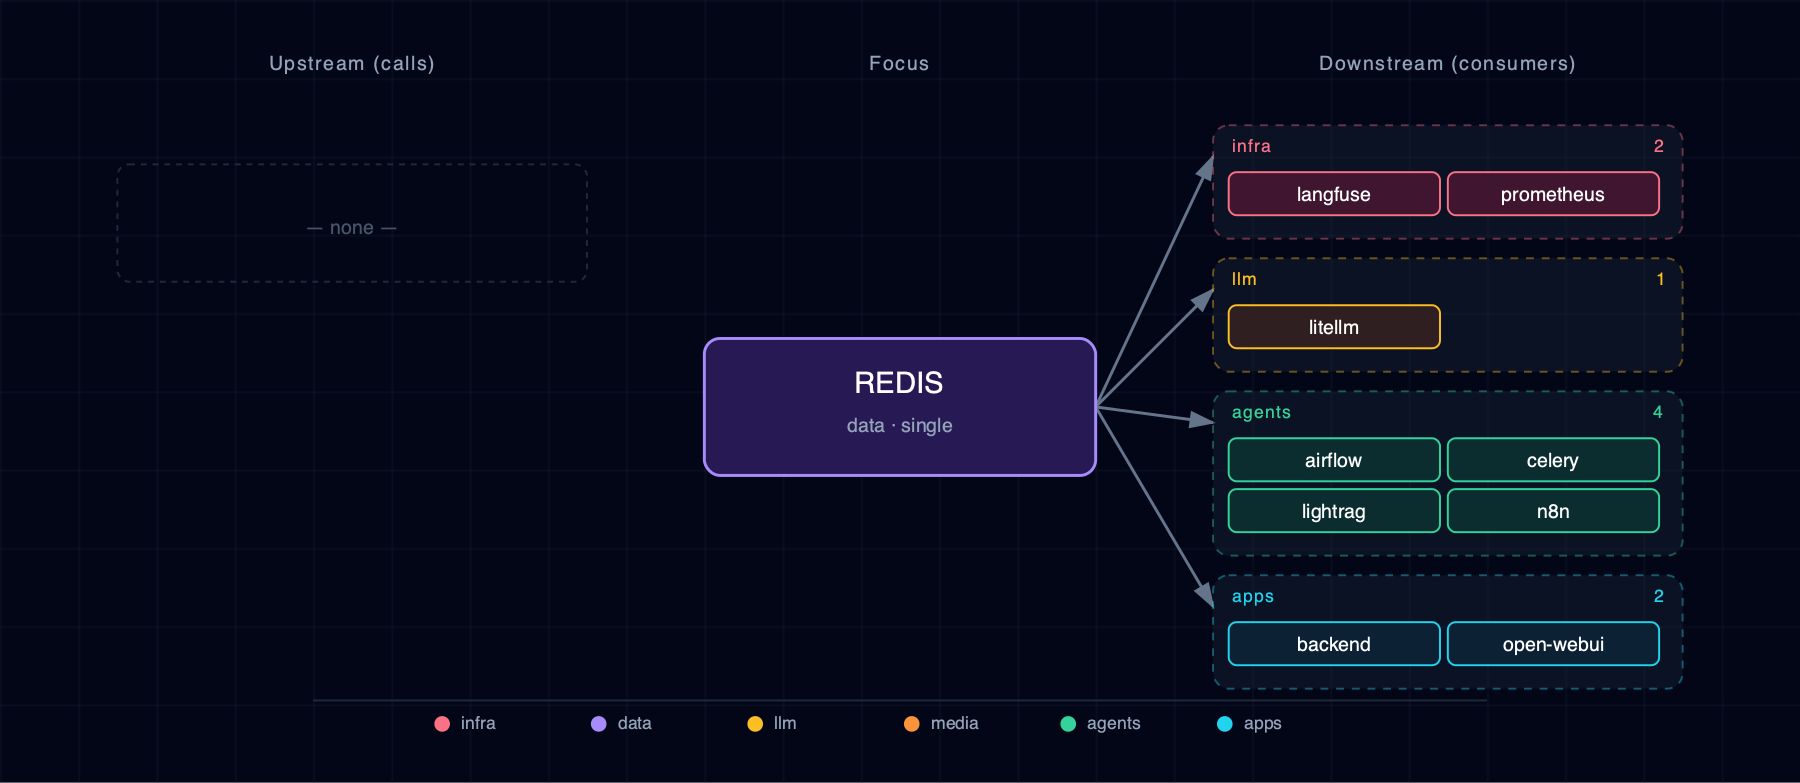
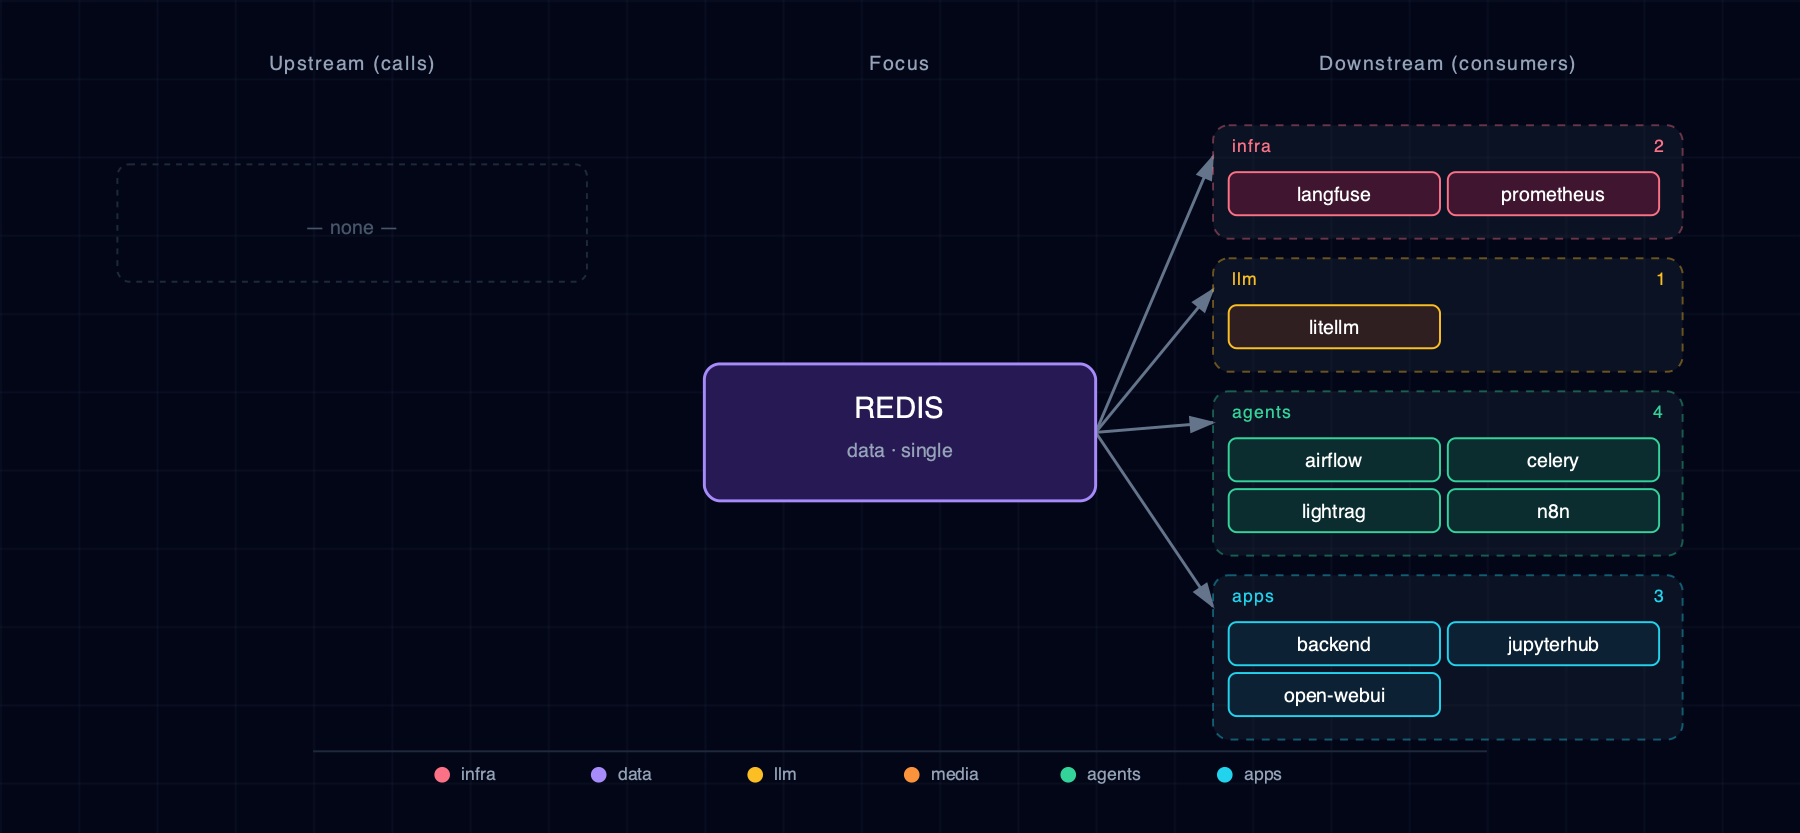
fix(jupyterhub): add the missing redis edge to data_flow.calls
jupyterhub injects REDIS_URL (redis://…@redis:6379/3 with creds) and startup.sh
advertises it to notebooks as "Cache and queue" alongside every other endpoint
that IS in data_flow.calls, but redis was omitted — so the generated deps table
and architecture diagram missed the jupyterhub→redis edge. Add it and regen.

diff --git a/services/redis/architecture.html b/services/redis/architecture.html
@@ -21,7 +21,7 @@
   <div class="wrap">
     <h1><span class="dot"></span> redis — Architecture</h1>
     <div class="subtitle">category: data · source: single</div>
-    <div class="card"><svg xmlns="http://www.w3.org/2000/svg" viewBox="0 0 920 400" font-family="'JetBrains Mono', 'Fira Code', Menlo, Consolas, monospace">
+    <div class="card"><svg xmlns="http://www.w3.org/2000/svg" viewBox="0 0 920 426" font-family="'JetBrains Mono', 'Fira Code', Menlo, Consolas, monospace">
 <defs>
   <pattern id="grid" width="40" height="40" patternUnits="userSpaceOnUse">
     <path d="M 40 0 L 0 0 0 40" fill="none" stroke="#1e293b" stroke-width="0.5"/>
@@ -39,15 +39,15 @@
     </feMerge>
   </filter>
 </defs>
-<rect width="920" height="400" fill="#020617"/>
-<rect width="920" height="400" fill="url(#grid)"/>
+<rect width="920" height="426" fill="#020617"/>
+<rect width="920" height="426" fill="url(#grid)"/>
 <text x="180" y="36" fill="#94a3b8" font-size="10" font-weight="600" text-anchor="middle" letter-spacing="0.08em">Upstream (calls)</text>
 <text x="460" y="36" fill="#94a3b8" font-size="10" font-weight="600" text-anchor="middle" letter-spacing="0.08em">Focus</text>
 <text x="740" y="36" fill="#94a3b8" font-size="10" font-weight="600" text-anchor="middle" letter-spacing="0.08em">Downstream (consumers)</text>
-<line x1="560" y1="208" x2="620" y2="80" stroke="#64748b" stroke-width="1.5" marker-end="url(#arrowhead)"/>
-<line x1="560" y1="208" x2="620" y2="148" stroke="#64748b" stroke-width="1.5" marker-end="url(#arrowhead)"/>
-<line x1="560" y1="208" x2="620" y2="216" stroke="#64748b" stroke-width="1.5" marker-end="url(#arrowhead)"/>
-<line x1="560" y1="208" x2="620" y2="310" stroke="#64748b" stroke-width="1.5" marker-end="url(#arrowhead)"/>
+<line x1="560" y1="221" x2="620" y2="80" stroke="#64748b" stroke-width="1.5" marker-end="url(#arrowhead)"/>
+<line x1="560" y1="221" x2="620" y2="148" stroke="#64748b" stroke-width="1.5" marker-end="url(#arrowhead)"/>
+<line x1="560" y1="221" x2="620" y2="216" stroke="#64748b" stroke-width="1.5" marker-end="url(#arrowhead)"/>
+<line x1="560" y1="221" x2="620" y2="310" stroke="#64748b" stroke-width="1.5" marker-end="url(#arrowhead)"/>
 <g><rect x="60" y="84" width="240" height="60" rx="6" fill="none" stroke="#1e293b" stroke-width="1" stroke-dasharray="3,3"/><text x="180" y="120" fill="#475569" font-size="10" font-style="italic" text-anchor="middle">— none —</text></g>
 <g>
 <g class="cluster">
@@ -88,37 +88,38 @@
 <g><rect x="628" y="250" width="108" height="22" rx="4" fill="#0f172a"/><rect x="628" y="250" width="108" height="22" rx="4" fill="rgba(6, 78, 59, 0.4)" stroke="#34d399" stroke-width="1"/><text x="682" y="265" fill="white" font-size="10" text-anchor="middle">lightrag</text></g>
 <g><rect x="740" y="250" width="108" height="22" rx="4" fill="#0f172a"/><rect x="740" y="250" width="108" height="22" rx="4" fill="rgba(6, 78, 59, 0.4)" stroke="#34d399" stroke-width="1"/><text x="794" y="265" fill="white" font-size="10" text-anchor="middle">n8n</text></g>
 <g class="cluster">
-  <rect x="620" y="294" width="240" height="58" rx="8"
+  <rect x="620" y="294" width="240" height="84" rx="8"
         fill="rgba(30,41,59,0.35)"
         stroke="#22d3ee" stroke-width="1" stroke-dasharray="4,4" stroke-opacity="0.4"/>
   <text x="630" y="308" fill="#22d3ee" font-size="9" font-weight="700"
         text-anchor="start" style="letter-spacing:0.06em;text-transform:uppercase;">apps</text>
   <text x="850" y="308" fill="#22d3ee" font-size="9" font-weight="600"
-        text-anchor="end">2</text>
+        text-anchor="end">3</text>
 </g>
 
 <g><rect x="628" y="318" width="108" height="22" rx="4" fill="#0f172a"/><rect x="628" y="318" width="108" height="22" rx="4" fill="rgba(8, 51, 68, 0.4)" stroke="#22d3ee" stroke-width="1"/><text x="682" y="333" fill="white" font-size="10" text-anchor="middle">backend</text></g>
-<g><rect x="740" y="318" width="108" height="22" rx="4" fill="#0f172a"/><rect x="740" y="318" width="108" height="22" rx="4" fill="rgba(8, 51, 68, 0.4)" stroke="#22d3ee" stroke-width="1"/><text x="794" y="333" fill="white" font-size="10" text-anchor="middle">open-webui</text></g>
+<g><rect x="740" y="318" width="108" height="22" rx="4" fill="#0f172a"/><rect x="740" y="318" width="108" height="22" rx="4" fill="rgba(8, 51, 68, 0.4)" stroke="#22d3ee" stroke-width="1"/><text x="794" y="333" fill="white" font-size="10" text-anchor="middle">jupyterhub</text></g>
+<g><rect x="628" y="344" width="108" height="22" rx="4" fill="#0f172a"/><rect x="628" y="344" width="108" height="22" rx="4" fill="rgba(8, 51, 68, 0.4)" stroke="#22d3ee" stroke-width="1"/><text x="682" y="359" fill="white" font-size="10" text-anchor="middle">open-webui</text></g>
 </g>
-<g class="focus" filter="url(#focus-glow)">  <rect x="360" y="173" width="200" height="70" rx="8" fill="#0f172a"/>  <rect x="360" y="173" width="200" height="70" rx="8"         fill="rgba(76, 29, 149, 0.4)" stroke="#a78bfa" stroke-width="1.5"/>  <text x="460" y="201" fill="white" font-size="15" font-weight="700"         text-anchor="middle">REDIS</text>  <text x="460" y="221" fill="#94a3b8" font-size="10"         text-anchor="middle">data · single</text></g>
-<g class="legend"><line x1="160" y1="358" x2="760" y2="358" stroke="#1e293b" stroke-width="1"/>
-<circle cx="226" cy="370" r="4" fill="#fb7185"/>
-<text x="236" y="373" fill="#94a3b8" font-size="9" font-weight="400" text-anchor="start">infra</text>
-<circle cx="306" cy="370" r="4" fill="#a78bfa"/>
-<text x="316" y="373" fill="#94a3b8" font-size="9" font-weight="400" text-anchor="start">data</text>
-<circle cx="386" cy="370" r="4" fill="#fbbf24"/>
-<text x="396" y="373" fill="#94a3b8" font-size="9" font-weight="400" text-anchor="start">llm</text>
-<circle cx="466" cy="370" r="4" fill="#fb923c"/>
-<text x="476" y="373" fill="#94a3b8" font-size="9" font-weight="400" text-anchor="start">media</text>
-<circle cx="546" cy="370" r="4" fill="#34d399"/>
-<text x="556" y="373" fill="#94a3b8" font-size="9" font-weight="400" text-anchor="start">agents</text>
-<circle cx="626" cy="370" r="4" fill="#22d3ee"/>
-<text x="636" y="373" fill="#94a3b8" font-size="9" font-weight="400" text-anchor="start">apps</text>
+<g class="focus" filter="url(#focus-glow)">  <rect x="360" y="186" width="200" height="70" rx="8" fill="#0f172a"/>  <rect x="360" y="186" width="200" height="70" rx="8"         fill="rgba(76, 29, 149, 0.4)" stroke="#a78bfa" stroke-width="1.5"/>  <text x="460" y="214" fill="white" font-size="15" font-weight="700"         text-anchor="middle">REDIS</text>  <text x="460" y="234" fill="#94a3b8" font-size="10"         text-anchor="middle">data · single</text></g>
+<g class="legend"><line x1="160" y1="384" x2="760" y2="384" stroke="#1e293b" stroke-width="1"/>
+<circle cx="226" cy="396" r="4" fill="#fb7185"/>
+<text x="236" y="399" fill="#94a3b8" font-size="9" font-weight="400" text-anchor="start">infra</text>
+<circle cx="306" cy="396" r="4" fill="#a78bfa"/>
+<text x="316" y="399" fill="#94a3b8" font-size="9" font-weight="400" text-anchor="start">data</text>
+<circle cx="386" cy="396" r="4" fill="#fbbf24"/>
+<text x="396" y="399" fill="#94a3b8" font-size="9" font-weight="400" text-anchor="start">llm</text>
+<circle cx="466" cy="396" r="4" fill="#fb923c"/>
+<text x="476" y="399" fill="#94a3b8" font-size="9" font-weight="400" text-anchor="start">media</text>
+<circle cx="546" cy="396" r="4" fill="#34d399"/>
+<text x="556" y="399" fill="#94a3b8" font-size="9" font-weight="400" text-anchor="start">agents</text>
+<circle cx="626" cy="396" r="4" fill="#22d3ee"/>
+<text x="636" y="399" fill="#94a3b8" font-size="9" font-weight="400" text-anchor="start">apps</text>
 </g>
 </svg></div>
     <div class="cards">
       <div class="card"><h3>Calls</h3><div class="num">0</div></div>
-      <div class="card"><h3>Consumers</h3><div class="num">9</div></div>
+      <div class="card"><h3>Consumers</h3><div class="num">10</div></div>
       <div class="card"><h3>Categories</h3><div class="num">4</div></div>
     </div>
     <footer>Regenerate: python -m bootstrapper.docs.regen redis</footer>

diff --git a/services/jupyterhub/architecture.html b/services/jupyterhub/architecture.html
@@ -70,16 +70,17 @@
   <text x="70" y="146" fill="#a78bfa" font-size="9" font-weight="700"
         text-anchor="start" style="letter-spacing:0.06em;text-transform:uppercase;">data</text>
   <text x="290" y="146" fill="#a78bfa" font-size="9" font-weight="600"
-        text-anchor="end">7</text>
+        text-anchor="end">8</text>
 </g>
 
 <g><rect x="68" y="156" width="108" height="22" rx="4" fill="#0f172a"/><rect x="68" y="156" width="108" height="22" rx="4" fill="rgba(76, 29, 149, 0.4)" stroke="#a78bfa" stroke-width="1"/><text x="122" y="171" fill="white" font-size="10" text-anchor="middle">iceberg-rest</text></g>
 <g><rect x="180" y="156" width="108" height="22" rx="4" fill="#0f172a"/><rect x="180" y="156" width="108" height="22" rx="4" fill="rgba(76, 29, 149, 0.4)" stroke="#a78bfa" stroke-width="1"/><text x="234" y="171" fill="white" font-size="10" text-anchor="middle">minio</text></g>
 <g><rect x="68" y="182" width="108" height="22" rx="4" fill="#0f172a"/><rect x="68" y="182" width="108" height="22" rx="4" fill="rgba(76, 29, 149, 0.4)" stroke="#a78bfa" stroke-width="1"/><text x="122" y="197" fill="white" font-size="10" text-anchor="middle">neo4j</text></g>
-<g><rect x="180" y="182" width="108" height="22" rx="4" fill="#0f172a"/><rect x="180" y="182" width="108" height="22" rx="4" fill="rgba(76, 29, 149, 0.4)" stroke="#a78bfa" stroke-width="1"/><text x="234" y="197" fill="white" font-size="10" text-anchor="middle">redpanda</text></g>
-<g><rect x="68" y="208" width="108" height="22" rx="4" fill="#0f172a"/><rect x="68" y="208" width="108" height="22" rx="4" fill="rgba(76, 29, 149, 0.4)" stroke="#a78bfa" stroke-width="1"/><text x="122" y="223" fill="white" font-size="10" text-anchor="middle">spark</text></g>
-<g><rect x="180" y="208" width="108" height="22" rx="4" fill="#0f172a"/><rect x="180" y="208" width="108" height="22" rx="4" fill="rgba(76, 29, 149, 0.4)" stroke="#a78bfa" stroke-width="1"/><text x="234" y="223" fill="white" font-size="10" text-anchor="middle">supabase</text></g>
-<g><rect x="68" y="234" width="108" height="22" rx="4" fill="#0f172a"/><rect x="68" y="234" width="108" height="22" rx="4" fill="rgba(76, 29, 149, 0.4)" stroke="#a78bfa" stroke-width="1"/><text x="122" y="249" fill="white" font-size="10" text-anchor="middle">weaviate</text></g>
+<g><rect x="180" y="182" width="108" height="22" rx="4" fill="#0f172a"/><rect x="180" y="182" width="108" height="22" rx="4" fill="rgba(76, 29, 149, 0.4)" stroke="#a78bfa" stroke-width="1"/><text x="234" y="197" fill="white" font-size="10" text-anchor="middle">redis</text></g>
+<g><rect x="68" y="208" width="108" height="22" rx="4" fill="#0f172a"/><rect x="68" y="208" width="108" height="22" rx="4" fill="rgba(76, 29, 149, 0.4)" stroke="#a78bfa" stroke-width="1"/><text x="122" y="223" fill="white" font-size="10" text-anchor="middle">redpanda</text></g>
+<g><rect x="180" y="208" width="108" height="22" rx="4" fill="#0f172a"/><rect x="180" y="208" width="108" height="22" rx="4" fill="rgba(76, 29, 149, 0.4)" stroke="#a78bfa" stroke-width="1"/><text x="234" y="223" fill="white" font-size="10" text-anchor="middle">spark</text></g>
+<g><rect x="68" y="234" width="108" height="22" rx="4" fill="#0f172a"/><rect x="68" y="234" width="108" height="22" rx="4" fill="rgba(76, 29, 149, 0.4)" stroke="#a78bfa" stroke-width="1"/><text x="122" y="249" fill="white" font-size="10" text-anchor="middle">supabase</text></g>
+<g><rect x="180" y="234" width="108" height="22" rx="4" fill="#0f172a"/><rect x="180" y="234" width="108" height="22" rx="4" fill="rgba(76, 29, 149, 0.4)" stroke="#a78bfa" stroke-width="1"/><text x="234" y="249" fill="white" font-size="10" text-anchor="middle">weaviate</text></g>
 <g class="cluster">
   <rect x="60" y="278" width="240" height="58" rx="8"
         fill="rgba(30,41,59,0.35)"
@@ -159,7 +160,7 @@
 </g>
 </svg></div>
     <div class="cards">
-      <div class="card"><h3>Calls</h3><div class="num">16</div></div>
+      <div class="card"><h3>Calls</h3><div class="num">17</div></div>
       <div class="card"><h3>Consumers</h3><div class="num">1</div></div>
       <div class="card"><h3>Categories</h3><div class="num">1</div></div>
     </div>

diff --git a/docs/reference/service-dependencies.md b/docs/reference/service-dependencies.md
@@ -24,7 +24,7 @@
 | hermes | litellm | - | litellm, stt-provider, tts-provider, comfyui, searxng, airflow, lightrag |
 | iceberg-rest | minio, supabase | - | minio, supabase |
 | jenkins | minio | airflow, spark | minio |
-| jupyterhub | supabase, redis, litellm | minio, iceberg-rest, spark, redpanda | litellm, hermes, weaviate, neo4j, supabase, ray, spark, redpanda, comfyui, n8n, backend, searxng, minio, iceberg-rest, mlflow, label-studio |
+| jupyterhub | supabase, redis, litellm | minio, iceberg-rest, spark, redpanda | litellm, hermes, weaviate, neo4j, supabase, ray, spark, redpanda, redis, comfyui, n8n, backend, searxng, minio, iceberg-rest, mlflow, label-studio |
 | kong | supabase, redis | - | backend, open-webui, jupyterhub, n8n, hermes, openclaw, local-deep-researcher, minio, supabase, weaviate, neo4j, comfyui, searxng, stt-provider, tts-provider, doc-processor, litellm, ollama, airflow, spark, lightrag, tei-reranker, verba, grafana, prometheus, ray |
 | label-studio | supabase, minio | jupyterhub, mlflow | supabase, minio |
 | langfuse | supabase, redis, minio, litellm, kong, ray | - | supabase, redis, minio |

diff --git a/services/jupyterhub/README.md b/services/jupyterhub/README.md
@@ -459,6 +459,7 @@ For the current high-level stack diagram, see [Architecture Diagram](../../docs/
 | iceberg-rest | data |
 | minio | data |
 | neo4j | data |
+| redis | data |
 | redpanda | data |
 | spark | data |
 | supabase | data |

diff --git a/services/redis/README.md b/services/redis/README.md
@@ -74,6 +74,7 @@ _No upstream calls._
 | lightrag | agents |
 | n8n | agents |
 | backend | apps |
+| jupyterhub | apps |
 | open-webui | apps |
 
 ### 6.3. Architecture diagram
